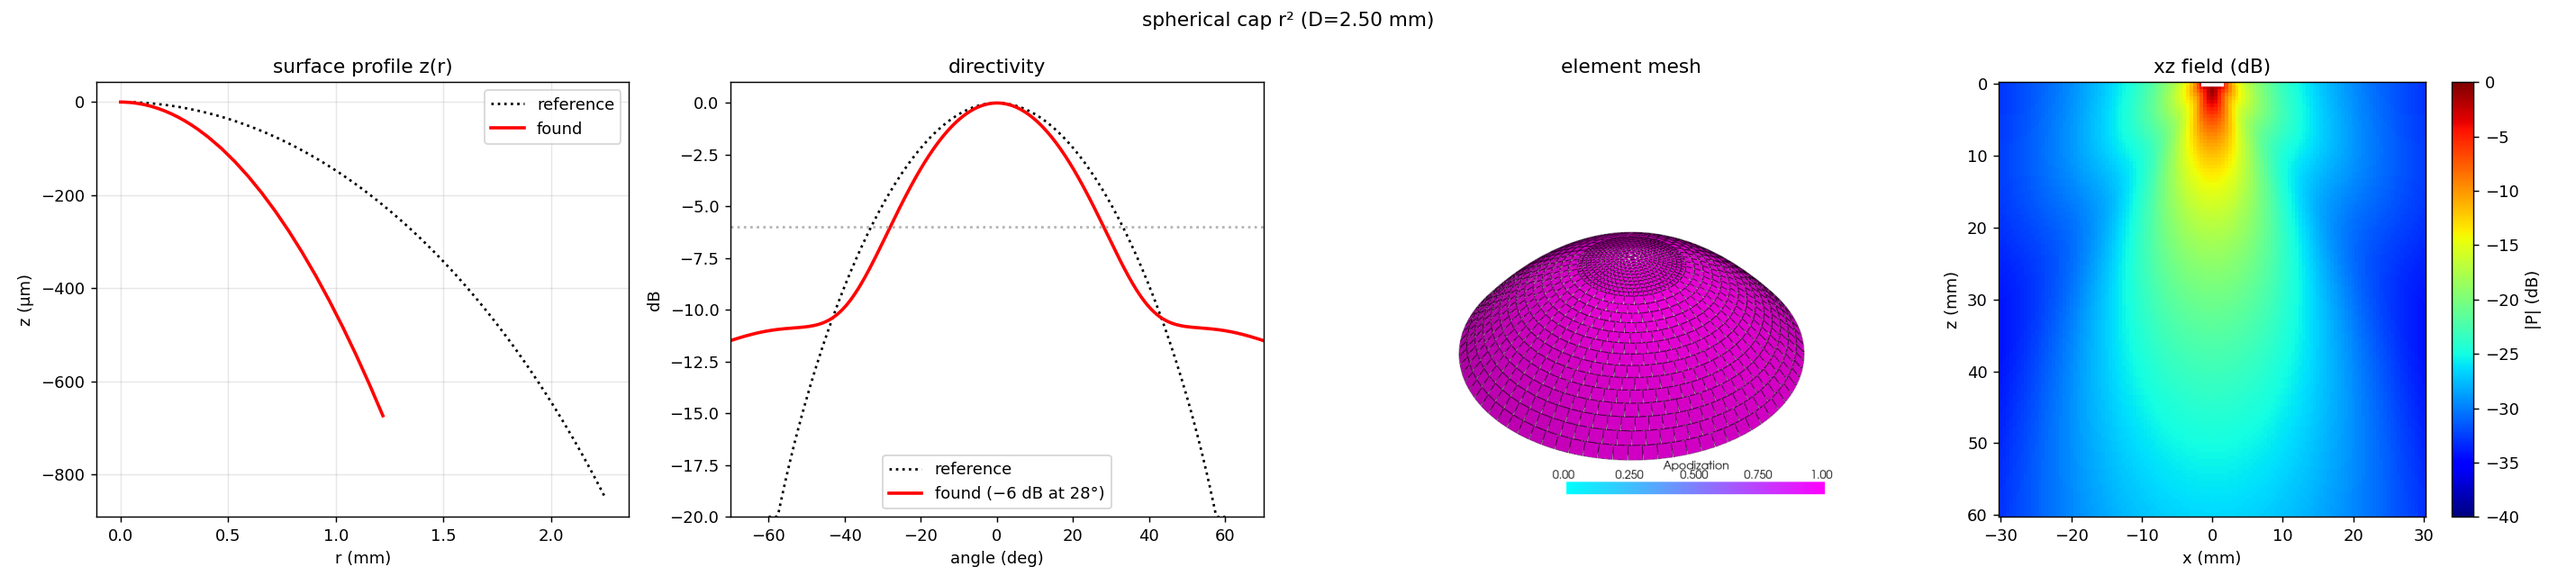
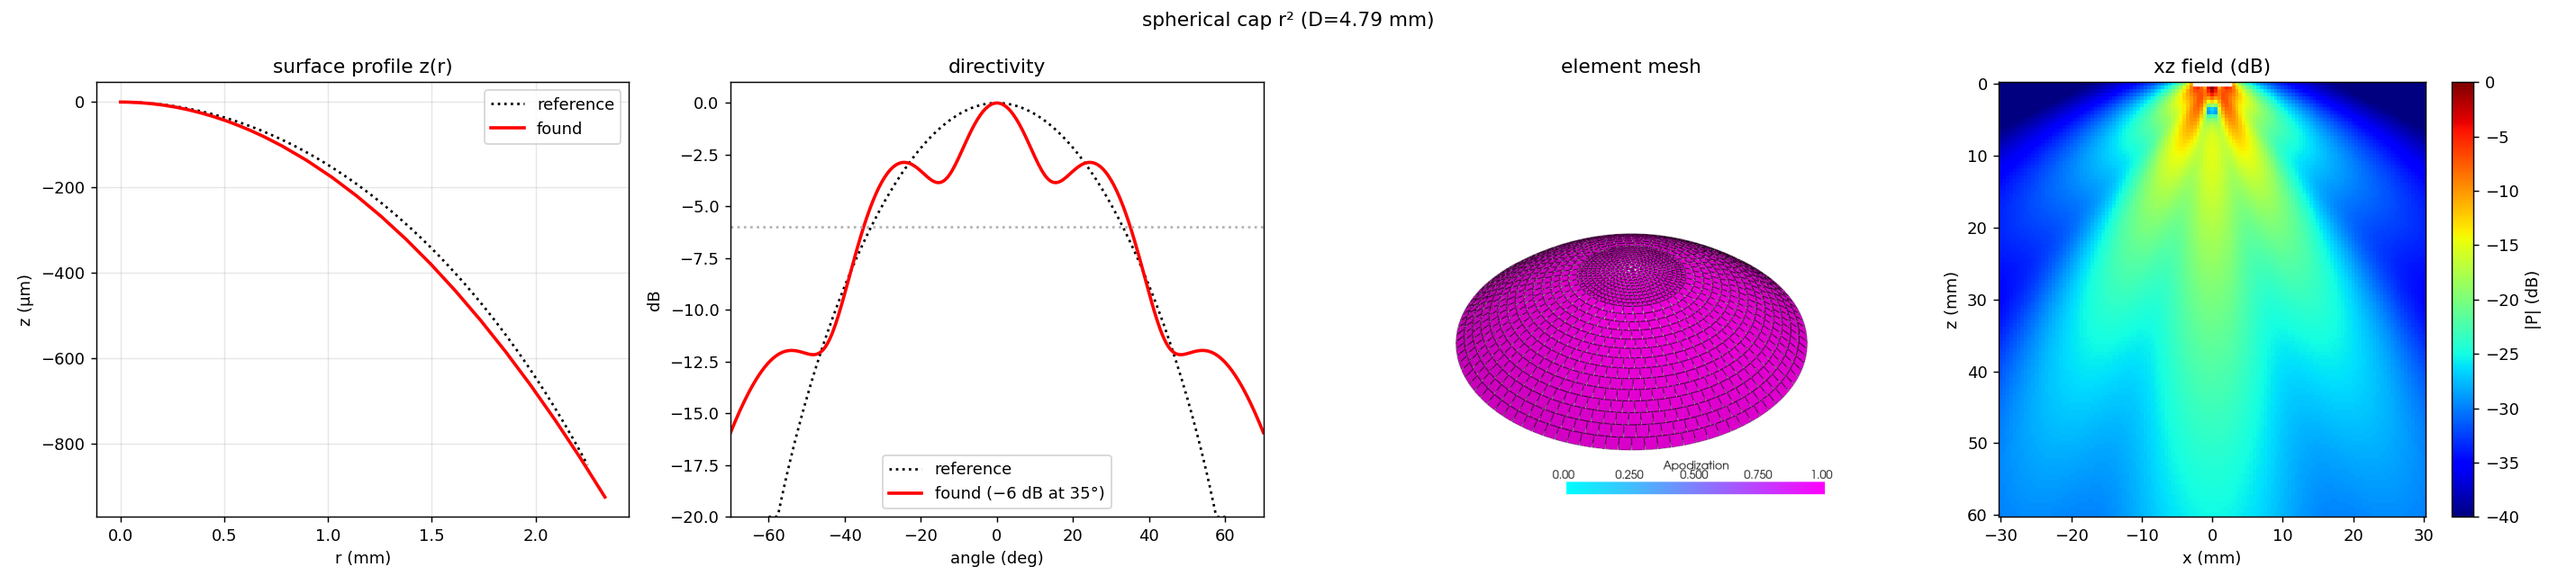
fix(examples): floor example23 diameter at 3.0 mm
With D >= 3 mm the spherical cap finds an interior optimum (D=4.79 mm, 35.5 deg)
instead of running to the aperture floor. Aspheric D=4.02 mm (34 deg).

diff --git a/examples/example23_optimize_radial_element.py b/examples/example23_optimize_radial_element.py
@@ -40,7 +40,7 @@ LAMBDA_MM = C0 / FC * 1e3
 TARGET_HALF_DEG = 33.17  # paper's measured −6 dB half-angle with the lens
 ANGLE = np.linspace(-60, 60, 241)
 FIT = np.abs(ANGLE) <= 50.0  # fit the main lobe (±50°), where the bell shape matters
-D_BOUNDS = (2.5, 5.5)
+D_BOUNDS = (3.0, 5.5)
 
 # Paper's doublet collapsed to one effective diverging cap (both faces R = 3.2 mm,
 # epoxy c=2570 then silicone c=1015 → index contrast n₂−n₁ = c0/c₂ − c0/c₁).

diff --git a/docs/examples/example23_optimize_radial_element.md b/docs/examples/example23_optimize_radial_element.md
@@ -62,17 +62,15 @@ from esdiva import Emission
 # multimodal, so the free-aspheric fit restarts from several diameters (multistart)
 # and keeps the lowest-MSE result — a single start is not reproducible.
 res = minimize(loss, x0, method="Nelder-Mead",
-               bounds=[(2.5, 5.5)] + [coeff_bounds] * n_terms)
+               bounds=[(3.0, 5.5)] + [coeff_bounds] * n_terms)
 ```
 
 !!! note "Well-posedness"
     Matching the main lobe alone is **under-determined** — a smooth convex cap and a
     central-dimple aspheric fit the same bell, and with a free diameter Nelder–Mead can
     even walk to the diameter bound. **Multistart** over the diameter (restart from
-    several diameters, keep the lowest-MSE basin) makes the fit reproducible. The
-    single-term **sphere** has no interior optimum and runs to the smallest allowed
-    aperture — an honest corner solution; the richer **free aspheric** finds a true
-    interior minimum.
+    several diameters, keep the lowest-MSE basin) makes both fits reproducible — each
+    settles on an interior diameter rather than a bound.
 
 ---
 
@@ -81,9 +79,9 @@ res = minimize(loss, x0, method="Nelder-Mead",
 Each is shown with the same four panels: **surface profile** `z(r)` and **directivity**
 (found solid-red vs reference dotted-black), the patch **mesh**, and the **xz** pressure
 plane. The refractive doublet reaches ~30°, the free aspheric ~34°, and the single-term
-sphere shrinks to the smallest allowed aperture (~29°): a lone `r²` cap has no interior
-optimum — it only widens by getting smaller — so a single rigid cap cannot cleanly match
-the bell, which the paper's real multilens does.
+sphere ~35°. The sphere overshoots the bell with an on-axis dip — a lone `r²` cap cannot
+suppress the ±45° shoulder (spherical aberration); the richer aspheric sits closer, and
+the paper's real multilens removes it entirely.
 
 ![Refractive doublet](assets/ex23_refraction.png)
 ![Spherical cap r²](assets/ex23_spherical.png)
